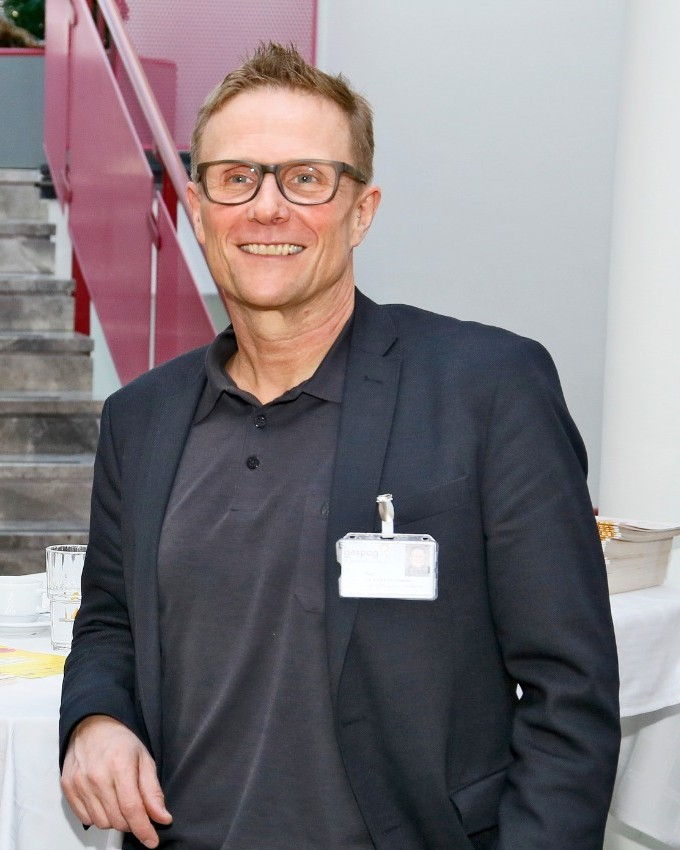
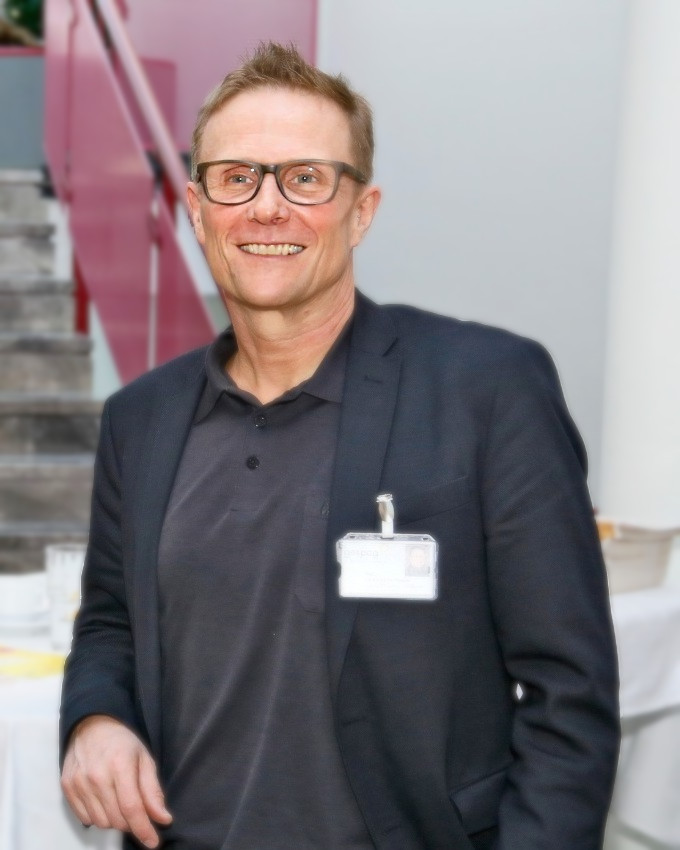
fixed homeview spacing bottom, removed redundant text, changed about image to be blurred in bg

diff --git a/src/views/ContactView.vue b/src/views/ContactView.vue
@@ -7,16 +7,15 @@
         <div class="max-w-4xl mx-auto px-6 py-12">
           <div class="flex-1 text-center md:text-left">
             <h1 class="text-4xl md:text-5xl font-bold text-primary dark:text-primary-dark mb-4">
-
               Kontakt
             </h1>
             <p class="text-lg text-secondary dark:text-secondary-dark leading-relaxed">
               Sie stehen vor einer wichtigen Führungsentscheidung, einer Veränderung oder möchten Ihre
               Führungskompetenz gezielt weiterentwickeln?
             </p>
-            <p class="text-lg text-secondary dark:text-secondary-dark leading-relaxed">
-              Ich freue mich auf ein persönliches Kennenlernen.
-              Lassen Sie uns ins Gespräch kommen!
+            <p class="pt-5 text-lg text-secondary dark:text-secondary-dark leading-relaxed">
+              Ich freue mich auf ein persönliches Kennenlernen. <br>
+              <!-- Lassen Sie uns ins Gespräch kommen! -->
             </p>
 
           </div>

diff --git a/src/views/HomeView.vue b/src/views/HomeView.vue
@@ -1,5 +1,5 @@
 <template>
-  <div class="flex flex-col min-h-screen">
+  <div class="flex flex-col min-h-[calc(100vh-60px)]">
     <!-- 1. Hero Section -->
     <section class="flex items-center justify-center bg-surface dark:bg-surface-dark">
       <div class="max-w-6xl mx-auto px-6 py-20 grid md:grid-cols-5 items-center">
@@ -28,6 +28,7 @@
         </div>
       </div>
     </section>
+    <div class="flex-grow"></div>
     <!-- 2. Metaphor Section
     <section class="flex items-center justify-center bg-surface dark:bg-surface-dark">
       <div class="max-w-4xl mx-auto px-6 py-20 text-center">
